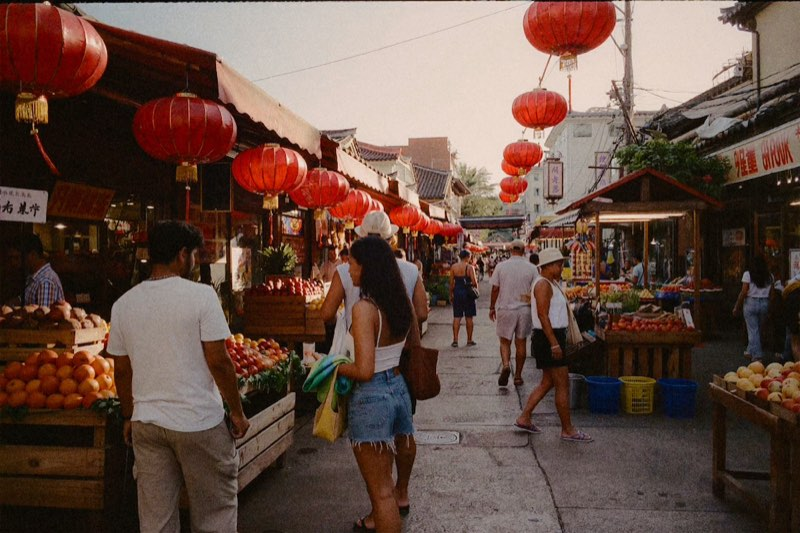
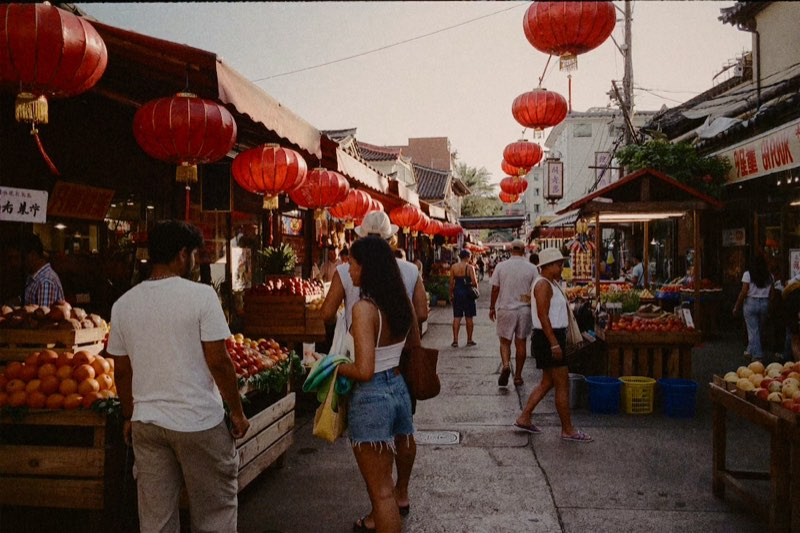
feat(recipes): City Neg 400 is a flash-on-a-dim-street recipe, and recipes share by QR only (#22)
City Neg 400's card takes the app's new description and guidance in both
languages, a new occasion line and short description, and the re-rendered
sample. The "Build your own" frames and the privacy policy no longer say a
recipe is shared as text or pasted back in: it is handed over as a QR code.

diff --git a/vi/recipes/index.html b/vi/recipes/index.html
@@ -100,9 +100,9 @@
           <div class="b-rows">
             <p><span>Tên</span><span class="b-val">Sunday Flyover</span></p>
             <p><span>Gốc</span><span class="b-val">Toffee Neg</span></p>
-            <p><span>Chia sẻ</span><span class="b-val">Dạng văn bản hoặc QR</span></p>
+            <p><span>Chia sẻ</span><span class="b-val">Bằng mã QR</span></p>
           </div>
-        </div><figcaption>3 · Lưu vào mục Của tôi, và chia sẻ dưới dạng văn bản mà ai cũng dán lại được.</figcaption></figure>
+        </div><figcaption>3 · Lưu vào mục Của tôi, và chia sẻ bằng mã QR để máy khác quét.</figcaption></figure>
       </div>
     </div>
   </section>
@@ -670,11 +670,11 @@
         <img src="/img/recipes/samples/cityneg.jpg" width="800" height="533"
           alt="Ảnh mẫu tráng bằng City Neg 400" loading="lazy" decoding="async">
         <div class="card-body">
-          <p class="card-occasion">Cho chợ, đèn lồng và những con phố đông người.</p><h3>City Neg 400</h3>
+          <p class="card-occasion">Cho những gương mặt trên con phố thiếu sáng, bật flash.</p><h3>City Neg 400</h3>
           <p class="card-film">Lost Summer Neg<span class="palette" aria-hidden="true"><i style="background:#303538"></i><i style="background:#b9614f"></i><i style="background:#d7a480"></i><i style="background:#51775f"></i><i style="background:#99bcdb"></i><i style="background:#e0d5d0"></i></span></p>
-          <p class="card-desc">Lost Summer Neg được đẩy về phía một buổi chiều phố thị ấm áp. Màu sắc đầy đặn: vải đỏ và đèn lồng thành màu đỏ đậm và sâu, làn da ấm và ánh vàng, còn mái hiên, trái cây và biển hiệu giữ trọn sức nặng, trong khi bầu trời quang nhạt đi thành màu xám ấm dịu và hiệu ứng màu xanh mạnh giữ cho áo xanh và biển hiệu xanh đậm lại. Những vùng sáng nhất được kéo lùi nhiều nên tường trắng và bầu trời không bao giờ bị chói, còn vùng tối sâu hơn một bậc, nên ô cửa và mặt tiền cửa hàng vẫn giữ được sức nặng. Chi tiết nhỏ được làm mềm một chút, các đường viền vẫn giữ độ sắc, và một lớp hạt nhẹ và mịn phủ lên mọi thứ, kèm một quầng sáng mờ ở các mép sáng và các góc tối đi nhẹ nhàng.</p>
+          <p class="card-desc">Lost Summer Neg dành cho đèn flash trên một con phố thiếu sáng. Người được đèn flash chiếu tới nổi lên ấm và ánh vàng, trong khi con phố phía sau tối đi một bậc, và các góc tối dần như khi ánh flash không còn với tới. Màu đỏ vẫn đậm và sâu — vải, đèn lồng, biển hiệu — và hiệu ứng màu xanh mạnh giữ cho áo xanh và biển hiệu xanh đậm lại. Màu đen là đen thật, những vùng sáng nhất được kéo lùi nhiều nên áo trắng vẫn trắng dịu thay vì chói, và các đường viền vẫn sắc. Một lớp hạt nhẹ và mịn phủ lên mọi thứ, chỉ kèm một quầng sáng mờ ở các mép sáng.</p>
           <p class="card-grain"><b>Hạt phim 35 · nhỏ</b> — hạt rõ ràng, thật thà</p>
-          <p class="card-when">Đường phố, chợ và người trong thành phố vào ban ngày, dưới nắng hoặc bóng râm thoáng. Phơi sáng theo mức máy ảnh đề xuất; phần vùng sáng được giảm giúp giữ chi tiết tường và bầu trời. Trong bóng râm sâu hoặc lúc chạng vạng, giảm thông số Vùng tối một mức để tránh mất chi tiết trong bóng tối.</p>
+          <p class="card-when">Chụp người trên phố với đèn flash bật — trong bóng râm, lúc chạng vạng hoặc sau khi trời tối — trong khoảng một mét rưỡi. Khi không bật flash, công thức hợp với phố nắng gắt ban ngày, cho ảnh tối và đậm; tăng phơi sáng 1/3 stop nếu vùng tối bị bết. Dưới nắng gắt thì gần như không thấy flash.</p>
           <a class="card-scene" href="#rc2" data-scene="cityneg">Xem trên khung cảnh chung</a>
         </div></article><article class="recipe-card" id="r-underpass">
         <img src="/img/recipes/samples/underpass.jpg" width="800" height="533"

diff --git a/recipes/index.html b/recipes/index.html
@@ -99,9 +99,9 @@
           <div class="b-rows">
             <p><span>Name</span><span class="b-val">Sunday Flyover</span></p>
             <p><span>Base</span><span class="b-val">Toffee Neg</span></p>
-            <p><span>Share</span><span class="b-val">As text or QR</span></p>
+            <p><span>Share</span><span class="b-val">By QR code</span></p>
           </div>
-        </div><figcaption>3 · Save it to Mine, and share it as plain text anyone can paste back in.</figcaption></figure>
+        </div><figcaption>3 · Save it to Mine, and share it as a QR code another phone can scan.</figcaption></figure>
       </div>
     </div>
   </section>
@@ -669,11 +669,11 @@
         <img src="/img/recipes/samples/cityneg.jpg" width="800" height="533"
           alt="Sample image developed with City Neg 400" loading="lazy" decoding="async">
         <div class="card-body">
-          <p class="card-occasion">For markets, lanterns and full streets.</p><h3>City Neg 400</h3>
+          <p class="card-occasion">For faces on a dim street, flash on.</p><h3>City Neg 400</h3>
           <p class="card-film">Lost Summer Neg<span class="palette" aria-hidden="true"><i style="background:#303538"></i><i style="background:#b9614f"></i><i style="background:#d7a480"></i><i style="background:#51775f"></i><i style="background:#99bcdb"></i><i style="background:#e0d5d0"></i></span></p>
-          <p class="card-desc">Lost Summer Neg pushed toward a warm city afternoon. Colour runs full: red cloth and lanterns go a deep, rich red, skin turns warm and golden, and awnings, fruit and signs keep their weight, while a clear sky pales to a soft, warm grey and the strong blue chrome holds blue shirts and signs dark. The brightest parts are pulled well back so white walls and sky never glare, and the shadows sit a step deeper, so doorways and shopfronts keep their weight. Fine detail is softened a little, edges keep their bite, and a light, fine grain lies over everything, with a faint glow at bright edges and corners gently darkened.</p>
+          <p class="card-desc">Lost Summer Neg set for a flash on a dim street. The person the flash reaches comes forward warm and golden while the street behind falls a step darker, and the corners fall away the way a flash runs out of reach. Reds stay deep and rich — cloth, lanterns, signs — and the strong blue chrome holds blue shirts and signs dark. Blacks are true black, the brightest parts are pulled well back so a white shirt stays a soft white instead of glaring, and edges stay crisp. A light, fine grain lies over everything, with only a faint glow at bright edges.</p>
           <p class="card-grain"><b>Grain 35 · small</b> — a present, honest grain</p>
-          <p class="card-when">Streets, markets and people out in the city by day, in sun or open shade. Expose as the camera asks; the held-back highlights leave room for bright walls and sky. In deep shade or at dusk lower the shadow a step so the dark parts do not close up.</p>
+          <p class="card-when">People on the street with the flash on — in shade, at dusk or after dark — from within about a metre and a half. Without flash it suits a hard-lit street by day, where it comes out dark and punchy; raise the exposure a third of a stop if the shadows close up. In open sun the flash barely shows.</p>
           <a class="card-scene" href="#rc2" data-scene="cityneg">See it on the shared scene</a>
         </div></article><article class="recipe-card" id="r-underpass">
         <img src="/img/recipes/samples/underpass.jpg" width="800" height="533"

diff --git a/privacy/index.html b/privacy/index.html
@@ -128,7 +128,7 @@ nav.top span a:hover{color:var(--text)}
 
   <section>
     <h2>Sharing</h2>
-    <p>When you share a photo, video or recipe, Fonder creates the file, text, link or QR code on your device and hands it to the destination you choose through the iPhone's share sheet. What happens next is governed by that app or service's privacy policy. A shared recipe contains only its settings, and a name only if you add one.</p>
+    <p>When you share a photo or video, Fonder creates the file on your device and hands it to the destination you choose through the iPhone's share sheet. What happens next is governed by that app or service's privacy policy. A recipe is shared as a QR code that Fonder draws on your screen for another phone to scan. A shared recipe contains only its settings, and a name only if you add one.</p>
   </section>
 
   <section>

diff --git a/tools/build_recipes.py b/tools/build_recipes.py
@@ -562,9 +562,9 @@ def build_frames(tr):
           <div class="b-rows">
             <p><span>{m("name", "Name")}</span><span class="b-val">Sunday Flyover</span></p>
             <p><span>{m("base", "Base")}</span><span class="b-val">Toffee Neg</span></p>
-            <p><span>{m("share", "Share")}</span><span class="b-val">{m("share_how", "As text or QR")}</span></p>
+            <p><span>{m("share", "Share")}</span><span class="b-val">{m("share_how", "By QR code")}</span></p>
           </div>
-        </div><figcaption>{esc(tr("build.cap3", "3 · Save it to Mine, and share it as plain text anyone can paste back in."))}</figcaption></figure>
+        </div><figcaption>{esc(tr("build.cap3", "3 · Save it to Mine, and share it as a QR code another phone can scan."))}</figcaption></figure>
       </div>"""
 
 
